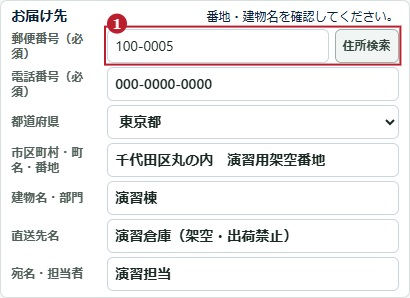
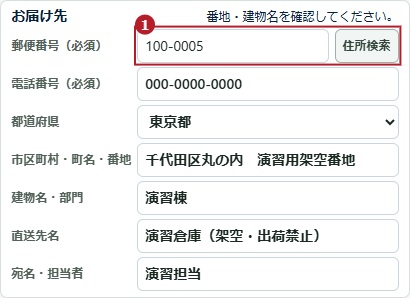
入力欄の位置を揃えたまま住所ラベルの折り返しを抑える

diff --git a/recycle-orders.css b/recycle-orders.css
@@ -321,7 +321,7 @@ html:has(dialog.recycle-entry-dialog[open]), body:has(dialog.recycle-entry-dialo
 }
 :is(.recycle-entry-address, .recycle-entry-delivery) .recycle-grid > :is(label, .recycle-postal-field) {
   display: grid;
-  grid-template-columns: minmax(76px, 7.5em) minmax(0, 1fr);
+  grid-template-columns: min(10em, 34%) minmax(0, 1fr);
   align-items: center;
   gap: 6px;
 }
